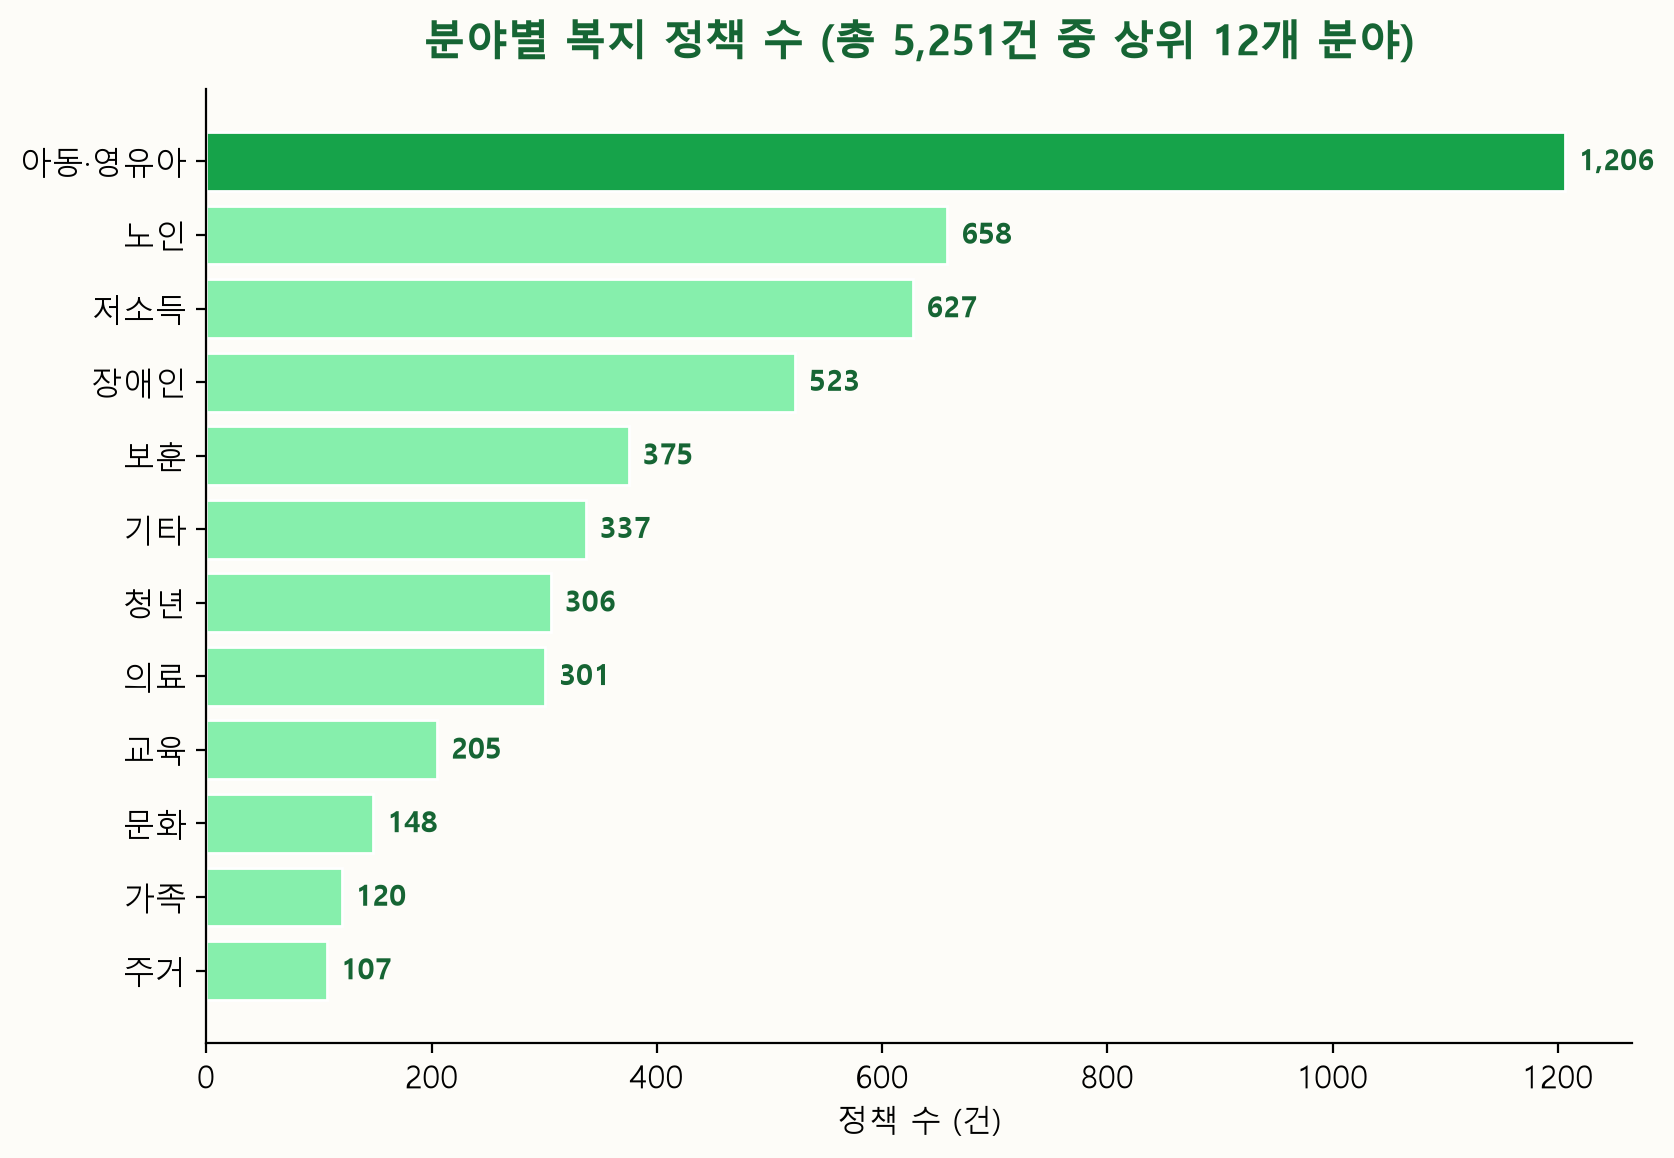
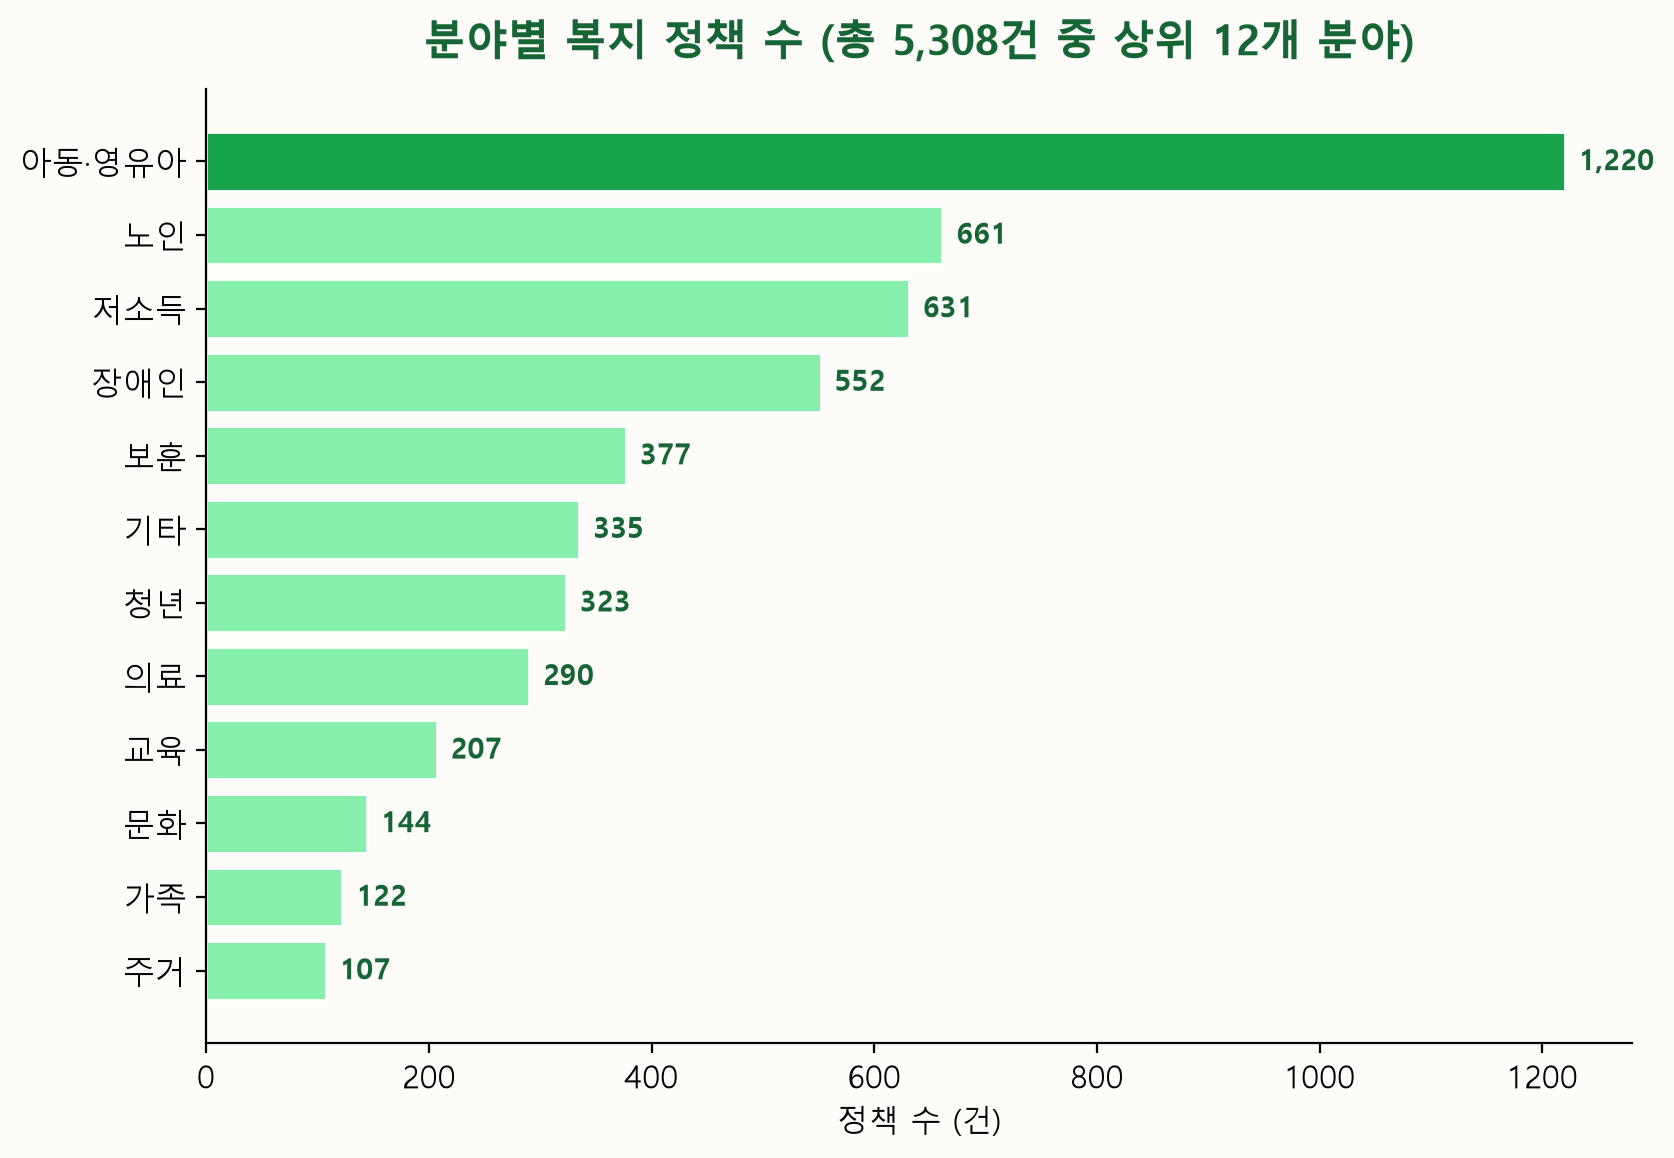
docs(기획서): 통계 차트 실측 재생성 — 카탈로그 5,308건 재계산·품질게이트(563·84+·11여정·A11y100) 최신화

diff --git a/기획서자료실/03-통계차트/make_charts.py b/기획서자료실/03-통계차트/make_charts.py
@@ -76,12 +76,12 @@ save(fig, 'chart3-페르소나발견가치.png')
 fig, ax = plt.subplots(figsize=(9.2, 5.0))
 fig.patch.set_facecolor(BG); ax.set_facecolor(BG)
 items = ['프론트 단위테스트', '백엔드 pytest', 'E2E 실브라우저 여정', '신청·발급 URL 생존검사', '접근성(Lighthouse)']
-vals4 = [353, 34, 10, 70, 96]
-labels4 = ['353개 통과', '34개 통과', '10개 여정 · 에러 0', '70건 중 69건 생존(1건 즉시 정정)', '96점 / BP·SEO 100점']
+vals4 = [563, 84, 11, 70, 100]  # 2026-07-11 실측(백엔드는 경량 환경 기준 84 이상, Lighthouse는 라이브 측정 100)
+labels4 = ['563개 통과', '84개+ 통과', '11개 여정 · 에러 0', '70건 중 69건 생존(1건 즉시 정정)', '100점 / BP·SEO 100점']
 bars = ax.barh(items[::-1], vals4[::-1], color=[SKY, ROSE, PEACH, LIGHT, GREEN][::-1], edgecolor='white')
 for b, lab in zip(bars, labels4[::-1]):
     ax.text(b.get_width() + 4, b.get_y() + b.get_height()/2, lab, va='center', fontsize=11, fontweight='bold', color=DARK)
-ax.set_xlim(0, 460)
+ax.set_xlim(0, 700)
 ax.set_title('품질을 숫자로 증명 — 자동 검증 게이트 (매 변경마다 실행)', fontsize=15, fontweight='bold', color=DARK, pad=12)
 ax.spines[['top', 'right']].set_visible(False)
 ax.tick_params(labelsize=11.5); ax.set_xticks([])
